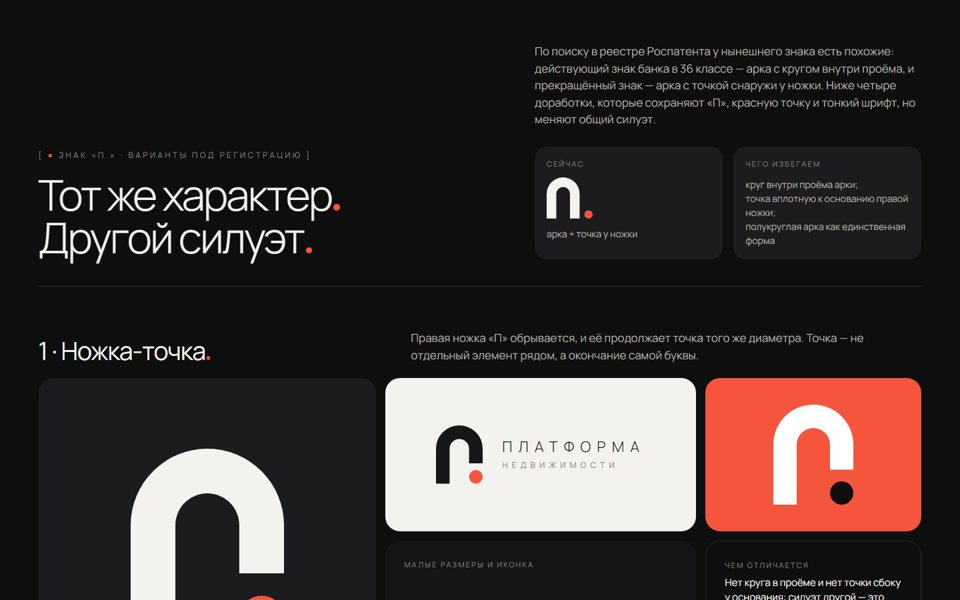
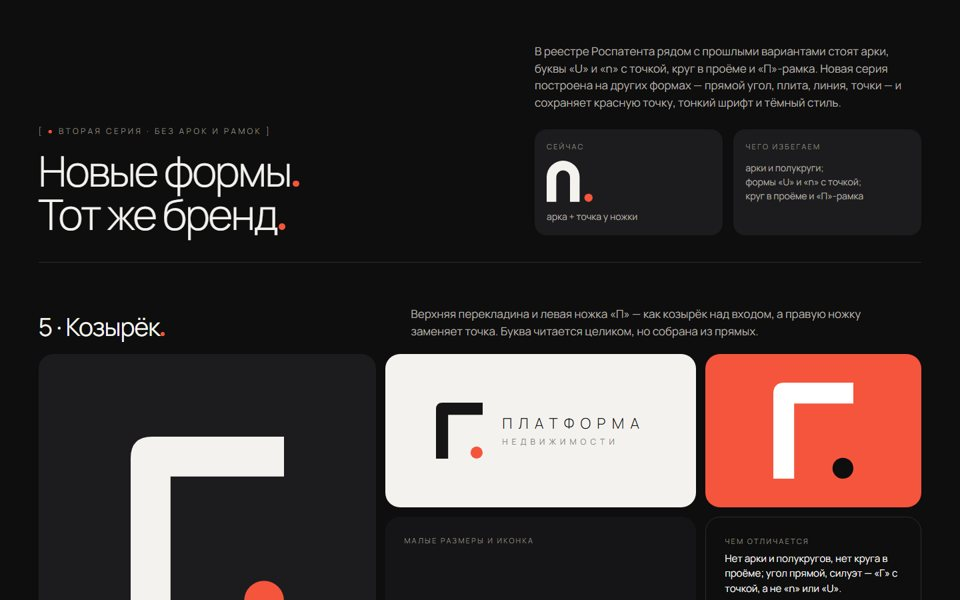
Вторая серия знаков с проверкой по реестру

diff --git a/10_Новые_знаки/index.html b/10_Новые_знаки/index.html
@@ -1,0 +1,74 @@
+<!doctype html><html lang="ru"><head><meta charset="utf-8"><meta name="viewport" content="width=device-width,initial-scale=1">
+<title>Новые знаки</title>
+<link href="https://fonts.googleapis.com/css2?family=Manrope:wght@300;400;500;600&display=swap" rel="stylesheet">
+<style>
+*{box-sizing:border-box}body{margin:0;background:#0E0E0F;color:#F4F2EE;font:400 16px/1.5 Manrope,system-ui,sans-serif}
+.w{max-width:1600px;margin:0 auto;padding:64px clamp(16px,4vw,72px) 90px}
+i.o{display:inline-block;width:.15em;height:.15em;border-radius:50%;background:#F5553C;margin-left:.05em}
+header{display:grid;grid-template-columns:minmax(0,1.2fr) minmax(0,1fr);gap:48px;align-items:end;border-bottom:1px solid #ffffff1f;padding-bottom:40px}
+h1{font:300 clamp(40px,4.4vw,72px)/1.02 Manrope;letter-spacing:-.04em;margin:18px 0 0}
+.br{font-size:12px;letter-spacing:.28em;text-transform:uppercase;color:#8A867F}.br b{color:#F5553C;font-weight:600}
+.lead{color:#B5B0A8;font-size:17px;margin:0}
+.ref{display:flex;gap:16px;margin-top:28px}.ref>div{flex:1;background:#1C1C1E;border-radius:18px;padding:18px}
+.ref .cap{margin-bottom:12px}.ref p{margin:0;font-size:14px;color:#B5B0A8}
+.cap{font-size:11px;letter-spacing:.2em;text-transform:uppercase;color:#8A867F}
+.v{padding-top:64px}
+.vh{display:grid;grid-template-columns:minmax(0,.8fr) minmax(0,1.2fr);gap:48px;align-items:end;margin-bottom:22px}
+.vh h2{margin:0;font:400 clamp(30px,2.6vw,44px)/1.05 Manrope;letter-spacing:-.03em}.vh p{margin:0;color:#B5B0A8;font-size:17px;max-width:720px}
+.vg{display:grid;grid-template-columns:1.25fr 1.15fr .8fr;grid-template-rows:auto auto;gap:14px}
+.t{border-radius:22px;min-height:230px;display:flex;align-items:center;justify-content:center;padding:28px;position:relative}
+.big{grid-row:span 2;background:#1C1C1E;min-height:480px}.light{background:#F4F2EE}.red{background:#F5553C}
+.dark2{background:#151517;flex-direction:column;align-items:flex-start;justify-content:space-between}
+.szs{display:flex;align-items:flex-end;gap:22px;margin-top:20px}.sz{display:flex;flex-direction:column;align-items:center;gap:8px}.sz span{font-size:11px;color:#8A867F}
+.ic{width:76px;height:76px;border-radius:18px;background:#0E0E0F;box-shadow:inset 0 0 0 1px #ffffff1a;display:flex;align-items:center;justify-content:center}
+.txt{background:transparent;border:1px solid #ffffff1f;flex-direction:column;align-items:flex-start;justify-content:flex-start}
+.txt p{margin:6px 0 0;font-size:15px;color:#F4F2EE}
+footer{margin-top:80px;border-top:1px solid #ffffff1f;padding-top:24px;color:#8A867F;font-size:13px}
+@media(max-width:900px){header,.vh{grid-template-columns:minmax(0,1fr);gap:18px}.ref{flex-direction:column}
+.vg{grid-template-columns:minmax(0,1fr)}.big{grid-row:auto;min-height:320px}.txt{grid-column:auto}.light>div{transform:scale(.8)}}
+</style></head><body><div class="w">
+<header>
+  <div><div class="br">[ <b>●</b> вторая серия · без арок и рамок ]</div><h1>Новые формы<i class="o"></i><br>Тот же бренд<i class="o"></i></h1></div>
+  <div><p class="lead">В реестре Роспатента рядом с прошлыми вариантами стоят арки, буквы «U» и «n» с точкой, круг в проёме и «П»-рамка. Новая серия построена на других формах — прямой угол, плита, линия, точки — и сохраняет красную точку, тонкий шрифт и тёмный стиль.</p>
+    <div class="ref"><div><div class="cap">сейчас</div><svg width="70" height="61.8" viewBox="0 0 68 60" role="img" aria-label="Знак" style="display:block;overflow:visible"><path d="M0 60 V24 A24 24 0 0 1 48 24 V60 H34 V24 A10 10 0 0 0 14 24 V60 Z" fill="#F4F2EE"/><circle cx="61" cy="54" r="6" fill="#F5553C"/></svg><p style="margin-top:12px">арка + точка у ножки</p></div>
+    <div><div class="cap">чего избегаем</div><p>арки и полукруги;<br>формы «U» и «n» с точкой;<br>круг в проёме и «П»-рамка</p></div></div></div>
+</header>
+<section class="v">
+  <div class="vh"><h2>5 · Козырёк<i class="o"></i></h2><p>Верхняя перекладина и левая ножка «П» — как козырёк над входом, а правую ножку заменяет точка. Буква читается целиком, но собрана из прямых.</p></div>
+  <div class="vg">
+    <div class="t big"><svg width="230" height="276.0" viewBox="0 0 50 60" role="img" aria-label="Знак" style="display:block;overflow:visible"><path d="M0 60 V7 Q0 0 7 0 H50 V13 H13 V60 Z" fill="#F4F2EE"/><circle cx="43.5" cy="53.5" r="6.5" fill="#F5553C"/></svg></div>
+    <div class="t light"><div style="display:flex;align-items:center;gap:29px"><svg width="70" height="84.0" viewBox="0 0 50 60" role="img" aria-label="Знак" style="display:block;overflow:visible"><path d="M0 60 V7 Q0 0 7 0 H50 V13 H13 V60 Z" fill="#161617"/><circle cx="43.5" cy="53.5" r="6.5" fill="#F5553C"/></svg><div style="display:flex;flex-direction:column;align-items:flex-start"><div style="font:300 22px/1 Manrope,sans-serif;letter-spacing:.42em;color:#161617;white-space:nowrap">ПЛАТФОРМА</div><div style="font:400 12.1px/1 Manrope,sans-serif;letter-spacing:.5em;color:#8A867F;white-space:nowrap;margin-top:11px">НЕДВИЖИМОСТИ</div></div></div></div>
+    <div class="t red"><svg width="120" height="144.0" viewBox="0 0 50 60" role="img" aria-label="Знак" style="display:block;overflow:visible"><path d="M0 60 V7 Q0 0 7 0 H50 V13 H13 V60 Z" fill="#FFFFFF"/><circle cx="43.5" cy="53.5" r="6.5" fill="#0E0E0F"/></svg></div>
+    <div class="t dark2"><div class="cap">малые размеры и иконка</div><div class="szs"><div class="sz"><svg width="64" height="76.8" viewBox="0 0 50 60" role="img" aria-label="Знак" style="display:block;overflow:visible"><path d="M0 60 V7 Q0 0 7 0 H50 V13 H13 V60 Z" fill="#F4F2EE"/><circle cx="43.5" cy="53.5" r="6.5" fill="#F5553C"/></svg><span>64</span></div><div class="sz"><svg width="32" height="38.4" viewBox="0 0 50 60" role="img" aria-label="Знак" style="display:block;overflow:visible"><path d="M0 60 V7 Q0 0 7 0 H50 V13 H13 V60 Z" fill="#F4F2EE"/><circle cx="43.5" cy="53.5" r="6.5" fill="#F5553C"/></svg><span>32</span></div><div class="sz"><svg width="20" height="24.0" viewBox="0 0 50 60" role="img" aria-label="Знак" style="display:block;overflow:visible"><path d="M0 60 V7 Q0 0 7 0 H50 V13 H13 V60 Z" fill="#F4F2EE"/><circle cx="43.5" cy="53.5" r="6.5" fill="#F5553C"/></svg><span>20</span></div><div class="sz"><svg width="16" height="19.2" viewBox="0 0 50 60" role="img" aria-label="Знак" style="display:block;overflow:visible"><path d="M0 60 V7 Q0 0 7 0 H50 V13 H13 V60 Z" fill="#F4F2EE"/><circle cx="43.5" cy="53.5" r="6.5" fill="#F5553C"/></svg><span>16</span></div><div class="ic"><svg width="46" height="55.2" viewBox="0 0 50 60" role="img" aria-label="Знак" style="display:block;overflow:visible"><path d="M0 60 V7 Q0 0 7 0 H50 V13 H13 V60 Z" fill="#F4F2EE"/><circle cx="43.5" cy="53.5" r="6.5" fill="#F5553C"/></svg></div></div></div>
+    <div class="t txt"><div class="cap">чем отличается</div><p>Нет арки и полукругов, нет круга в проёме; угол прямой, силуэт — «Г» с точкой, а не «n» или «U».</p><div class="cap" style="margin-top:18px">оценка</div><p>Реестр: рядом несколько «Г»-образных знаков — риск умеренный. Может читаться как «Г.» («г.» — город).</p></div>
+  </div>
+</section><section class="v">
+  <div class="vh"><h2>6 · Подиум<i class="o"></i></h2><p>Плоская широкая «П» — плита на двух опорах, то есть буквально платформа. Точка стоит на ней: ваш объект на нашей платформе.</p></div>
+  <div class="vg">
+    <div class="t big"><svg width="230" height="165.3" viewBox="0 0 64 46" role="img" aria-label="Знак" style="display:block;overflow:visible"><rect x="0" y="22" width="64" height="12" rx="2" fill="#F4F2EE"/><rect x="5" y="34" width="11" height="12" fill="#F4F2EE"/><rect x="48" y="34" width="11" height="12" fill="#F4F2EE"/><circle cx="32" cy="11" r="9" fill="#F5553C"/></svg></div>
+    <div class="t light"><div style="display:flex;align-items:center;gap:29px"><svg width="70" height="50.3" viewBox="0 0 64 46" role="img" aria-label="Знак" style="display:block;overflow:visible"><rect x="0" y="22" width="64" height="12" rx="2" fill="#161617"/><rect x="5" y="34" width="11" height="12" fill="#161617"/><rect x="48" y="34" width="11" height="12" fill="#161617"/><circle cx="32" cy="11" r="9" fill="#F5553C"/></svg><div style="display:flex;flex-direction:column;align-items:flex-start"><div style="font:300 22px/1 Manrope,sans-serif;letter-spacing:.42em;color:#161617;white-space:nowrap">ПЛАТФОРМА</div><div style="font:400 12.1px/1 Manrope,sans-serif;letter-spacing:.5em;color:#8A867F;white-space:nowrap;margin-top:11px">НЕДВИЖИМОСТИ</div></div></div></div>
+    <div class="t red"><svg width="120" height="86.2" viewBox="0 0 64 46" role="img" aria-label="Знак" style="display:block;overflow:visible"><rect x="0" y="22" width="64" height="12" rx="2" fill="#FFFFFF"/><rect x="5" y="34" width="11" height="12" fill="#FFFFFF"/><rect x="48" y="34" width="11" height="12" fill="#FFFFFF"/><circle cx="32" cy="11" r="9" fill="#0E0E0F"/></svg></div>
+    <div class="t dark2"><div class="cap">малые размеры и иконка</div><div class="szs"><div class="sz"><svg width="64" height="46.0" viewBox="0 0 64 46" role="img" aria-label="Знак" style="display:block;overflow:visible"><rect x="0" y="22" width="64" height="12" rx="2" fill="#F4F2EE"/><rect x="5" y="34" width="11" height="12" fill="#F4F2EE"/><rect x="48" y="34" width="11" height="12" fill="#F4F2EE"/><circle cx="32" cy="11" r="9" fill="#F5553C"/></svg><span>64</span></div><div class="sz"><svg width="32" height="23.0" viewBox="0 0 64 46" role="img" aria-label="Знак" style="display:block;overflow:visible"><rect x="0" y="22" width="64" height="12" rx="2" fill="#F4F2EE"/><rect x="5" y="34" width="11" height="12" fill="#F4F2EE"/><rect x="48" y="34" width="11" height="12" fill="#F4F2EE"/><circle cx="32" cy="11" r="9" fill="#F5553C"/></svg><span>32</span></div><div class="sz"><svg width="20" height="14.4" viewBox="0 0 64 46" role="img" aria-label="Знак" style="display:block;overflow:visible"><rect x="0" y="22" width="64" height="12" rx="2" fill="#F4F2EE"/><rect x="5" y="34" width="11" height="12" fill="#F4F2EE"/><rect x="48" y="34" width="11" height="12" fill="#F4F2EE"/><circle cx="32" cy="11" r="9" fill="#F5553C"/></svg><span>20</span></div><div class="sz"><svg width="16" height="11.5" viewBox="0 0 64 46" role="img" aria-label="Знак" style="display:block;overflow:visible"><rect x="0" y="22" width="64" height="12" rx="2" fill="#F4F2EE"/><rect x="5" y="34" width="11" height="12" fill="#F4F2EE"/><rect x="48" y="34" width="11" height="12" fill="#F4F2EE"/><circle cx="32" cy="11" r="9" fill="#F5553C"/></svg><span>16</span></div><div class="ic"><svg width="46" height="33.1" viewBox="0 0 64 46" role="img" aria-label="Знак" style="display:block;overflow:visible"><rect x="0" y="22" width="64" height="12" rx="2" fill="#F4F2EE"/><rect x="5" y="34" width="11" height="12" fill="#F4F2EE"/><rect x="48" y="34" width="11" height="12" fill="#F4F2EE"/><circle cx="32" cy="11" r="9" fill="#F5553C"/></svg></div></div></div>
+    <div class="t txt"><div class="cap">чем отличается</div><p>Горизонтальная композиция вместо вертикальной арки; точка сверху, а не сбоку или в проёме.</p><div class="cap" style="margin-top:18px">оценка</div><p>Реестр: близких знаков нет — риск низкий. Название в знаке читается сразу.</p></div>
+  </div>
+</section><section class="v">
+  <div class="vh"><h2>7 · Ступени<i class="o"></i></h2><p>Тонкая линия из трёх ступеней, наверху — точка. Путь клиента: квартира, дом, ремонт — и результат.</p></div>
+  <div class="vg">
+    <div class="t big"><svg width="230" height="230.0" viewBox="0 0 60 60" role="img" aria-label="Знак" style="display:block;overflow:visible"><path d="M0 57.5 H15 V42.5 H30 V27.5 H45 V14" fill="none" stroke="#F4F2EE" stroke-width="5" stroke-linejoin="miter"/><circle cx="45" cy="6" r="6" fill="#F5553C"/></svg></div>
+    <div class="t light"><div style="display:flex;align-items:center;gap:29px"><svg width="70" height="70.0" viewBox="0 0 60 60" role="img" aria-label="Знак" style="display:block;overflow:visible"><path d="M0 57.5 H15 V42.5 H30 V27.5 H45 V14" fill="none" stroke="#161617" stroke-width="5" stroke-linejoin="miter"/><circle cx="45" cy="6" r="6" fill="#F5553C"/></svg><div style="display:flex;flex-direction:column;align-items:flex-start"><div style="font:300 22px/1 Manrope,sans-serif;letter-spacing:.42em;color:#161617;white-space:nowrap">ПЛАТФОРМА</div><div style="font:400 12.1px/1 Manrope,sans-serif;letter-spacing:.5em;color:#8A867F;white-space:nowrap;margin-top:11px">НЕДВИЖИМОСТИ</div></div></div></div>
+    <div class="t red"><svg width="120" height="120.0" viewBox="0 0 60 60" role="img" aria-label="Знак" style="display:block;overflow:visible"><path d="M0 57.5 H15 V42.5 H30 V27.5 H45 V14" fill="none" stroke="#FFFFFF" stroke-width="5" stroke-linejoin="miter"/><circle cx="45" cy="6" r="6" fill="#0E0E0F"/></svg></div>
+    <div class="t dark2"><div class="cap">малые размеры и иконка</div><div class="szs"><div class="sz"><svg width="64" height="64.0" viewBox="0 0 60 60" role="img" aria-label="Знак" style="display:block;overflow:visible"><path d="M0 57.5 H15 V42.5 H30 V27.5 H45 V14" fill="none" stroke="#F4F2EE" stroke-width="5" stroke-linejoin="miter"/><circle cx="45" cy="6" r="6" fill="#F5553C"/></svg><span>64</span></div><div class="sz"><svg width="32" height="32.0" viewBox="0 0 60 60" role="img" aria-label="Знак" style="display:block;overflow:visible"><path d="M0 57.5 H15 V42.5 H30 V27.5 H45 V14" fill="none" stroke="#F4F2EE" stroke-width="5" stroke-linejoin="miter"/><circle cx="45" cy="6" r="6" fill="#F5553C"/></svg><span>32</span></div><div class="sz"><svg width="20" height="20.0" viewBox="0 0 60 60" role="img" aria-label="Знак" style="display:block;overflow:visible"><path d="M0 57.5 H15 V42.5 H30 V27.5 H45 V14" fill="none" stroke="#F4F2EE" stroke-width="5" stroke-linejoin="miter"/><circle cx="45" cy="6" r="6" fill="#F5553C"/></svg><span>20</span></div><div class="sz"><svg width="16" height="16.0" viewBox="0 0 60 60" role="img" aria-label="Знак" style="display:block;overflow:visible"><path d="M0 57.5 H15 V42.5 H30 V27.5 H45 V14" fill="none" stroke="#F4F2EE" stroke-width="5" stroke-linejoin="miter"/><circle cx="45" cy="6" r="6" fill="#F5553C"/></svg><span>16</span></div><div class="ic"><svg width="46" height="46.0" viewBox="0 0 60 60" role="img" aria-label="Знак" style="display:block;overflow:visible"><path d="M0 57.5 H15 V42.5 H30 V27.5 H45 V14" fill="none" stroke="#F4F2EE" stroke-width="5" stroke-linejoin="miter"/><circle cx="45" cy="6" r="6" fill="#F5553C"/></svg></div></div></div>
+    <div class="t txt"><div class="cap">чем отличается</div><p>Никаких букв «П/n/U»: линейный знак-маршрут, из найденных в реестре ничего похожего.</p><div class="cap" style="margin-top:18px">оценка</div><p>Реестр: близких знаков нет — риск самый низкий. Тонкий, как нравилось клиенту. Рекомендую.</p></div>
+  </div>
+</section><section class="v">
+  <div class="vh"><h2>8 · Отбор<i class="o"></i></h2><p>«П» из семи точек, последняя — красная. Продолжает фирменную графику «из сотен предложений — одно проверенное».</p></div>
+  <div class="vg">
+    <div class="t big"><svg width="230" height="230.0" viewBox="0 0 40 40" role="img" aria-label="Знак" style="display:block;overflow:visible"><circle cx="6" cy="6" r="5.5" fill="#F4F2EE"/><circle cx="20" cy="6" r="5.5" fill="#F4F2EE"/><circle cx="34" cy="6" r="5.5" fill="#F4F2EE"/><circle cx="6" cy="20" r="5.5" fill="#F4F2EE"/><circle cx="34" cy="20" r="5.5" fill="#F4F2EE"/><circle cx="6" cy="34" r="5.5" fill="#F4F2EE"/><circle cx="34" cy="34" r="5.5" fill="#F5553C"/></svg></div>
+    <div class="t light"><div style="display:flex;align-items:center;gap:29px"><svg width="70" height="70.0" viewBox="0 0 40 40" role="img" aria-label="Знак" style="display:block;overflow:visible"><circle cx="6" cy="6" r="5.5" fill="#161617"/><circle cx="20" cy="6" r="5.5" fill="#161617"/><circle cx="34" cy="6" r="5.5" fill="#161617"/><circle cx="6" cy="20" r="5.5" fill="#161617"/><circle cx="34" cy="20" r="5.5" fill="#161617"/><circle cx="6" cy="34" r="5.5" fill="#161617"/><circle cx="34" cy="34" r="5.5" fill="#F5553C"/></svg><div style="display:flex;flex-direction:column;align-items:flex-start"><div style="font:300 22px/1 Manrope,sans-serif;letter-spacing:.42em;color:#161617;white-space:nowrap">ПЛАТФОРМА</div><div style="font:400 12.1px/1 Manrope,sans-serif;letter-spacing:.5em;color:#8A867F;white-space:nowrap;margin-top:11px">НЕДВИЖИМОСТИ</div></div></div></div>
+    <div class="t red"><svg width="120" height="120.0" viewBox="0 0 40 40" role="img" aria-label="Знак" style="display:block;overflow:visible"><circle cx="6" cy="6" r="5.5" fill="#FFFFFF"/><circle cx="20" cy="6" r="5.5" fill="#FFFFFF"/><circle cx="34" cy="6" r="5.5" fill="#FFFFFF"/><circle cx="6" cy="20" r="5.5" fill="#FFFFFF"/><circle cx="34" cy="20" r="5.5" fill="#FFFFFF"/><circle cx="6" cy="34" r="5.5" fill="#FFFFFF"/><circle cx="34" cy="34" r="5.5" fill="#0E0E0F"/></svg></div>
+    <div class="t dark2"><div class="cap">малые размеры и иконка</div><div class="szs"><div class="sz"><svg width="64" height="64.0" viewBox="0 0 40 40" role="img" aria-label="Знак" style="display:block;overflow:visible"><circle cx="6" cy="6" r="5.5" fill="#F4F2EE"/><circle cx="20" cy="6" r="5.5" fill="#F4F2EE"/><circle cx="34" cy="6" r="5.5" fill="#F4F2EE"/><circle cx="6" cy="20" r="5.5" fill="#F4F2EE"/><circle cx="34" cy="20" r="5.5" fill="#F4F2EE"/><circle cx="6" cy="34" r="5.5" fill="#F4F2EE"/><circle cx="34" cy="34" r="5.5" fill="#F5553C"/></svg><span>64</span></div><div class="sz"><svg width="32" height="32.0" viewBox="0 0 40 40" role="img" aria-label="Знак" style="display:block;overflow:visible"><circle cx="6" cy="6" r="5.5" fill="#F4F2EE"/><circle cx="20" cy="6" r="5.5" fill="#F4F2EE"/><circle cx="34" cy="6" r="5.5" fill="#F4F2EE"/><circle cx="6" cy="20" r="5.5" fill="#F4F2EE"/><circle cx="34" cy="20" r="5.5" fill="#F4F2EE"/><circle cx="6" cy="34" r="5.5" fill="#F4F2EE"/><circle cx="34" cy="34" r="5.5" fill="#F5553C"/></svg><span>32</span></div><div class="sz"><svg width="20" height="20.0" viewBox="0 0 40 40" role="img" aria-label="Знак" style="display:block;overflow:visible"><circle cx="6" cy="6" r="5.5" fill="#F4F2EE"/><circle cx="20" cy="6" r="5.5" fill="#F4F2EE"/><circle cx="34" cy="6" r="5.5" fill="#F4F2EE"/><circle cx="6" cy="20" r="5.5" fill="#F4F2EE"/><circle cx="34" cy="20" r="5.5" fill="#F4F2EE"/><circle cx="6" cy="34" r="5.5" fill="#F4F2EE"/><circle cx="34" cy="34" r="5.5" fill="#F5553C"/></svg><span>20</span></div><div class="sz"><svg width="16" height="16.0" viewBox="0 0 40 40" role="img" aria-label="Знак" style="display:block;overflow:visible"><circle cx="6" cy="6" r="5.5" fill="#F4F2EE"/><circle cx="20" cy="6" r="5.5" fill="#F4F2EE"/><circle cx="34" cy="6" r="5.5" fill="#F4F2EE"/><circle cx="6" cy="20" r="5.5" fill="#F4F2EE"/><circle cx="34" cy="20" r="5.5" fill="#F4F2EE"/><circle cx="6" cy="34" r="5.5" fill="#F4F2EE"/><circle cx="34" cy="34" r="5.5" fill="#F5553C"/></svg><span>16</span></div><div class="ic"><svg width="46" height="46.0" viewBox="0 0 40 40" role="img" aria-label="Знак" style="display:block;overflow:visible"><circle cx="6" cy="6" r="5.5" fill="#F4F2EE"/><circle cx="20" cy="6" r="5.5" fill="#F4F2EE"/><circle cx="34" cy="6" r="5.5" fill="#F4F2EE"/><circle cx="6" cy="20" r="5.5" fill="#F4F2EE"/><circle cx="34" cy="20" r="5.5" fill="#F4F2EE"/><circle cx="6" cy="34" r="5.5" fill="#F4F2EE"/><circle cx="34" cy="34" r="5.5" fill="#F5553C"/></svg></div></div></div>
+    <div class="t txt"><div class="cap">чем отличается</div><p>Знак из отдельных точек, а не сплошной формы; красная точка — часть буквы.</p><div class="cap" style="margin-top:18px">оценка</div><p>Реестр: в 36 классе много знаков из точек и сеток точек — риск умеренный, отличительность слабее. Зато знак и паттерн бренда — одно целое.</p></div>
+  </div>
+</section>
+<footer>Предварительная проработка. Окончательный выбор формы для подачи — после заключения патентного поверенного.</footer>
+</div></body></html>

diff --git a/index.html b/index.html
@@ -33,6 +33,6 @@ footer{border-top:1px solid #ffffff1a;padding:28px 0 40px;color:#8A867F;font-siz
 <div class="meta">Фирменный стиль<br>Екатеринбург · 2026</div></header>
 <h1>Квартира<i class="o"></i> Дом<i class="o"></i> Ремонт<i class="o"></i><br>Ставим точку<i class="o"></i></h1>
 <p class="lead">Материалы по бренду: презентация, пример сайта, логотип и носители.</p>
-<main class="grid"><article class="card"><a class="pv" href="07_Презентация/"><img src="_hub/1.jpg" alt="Презентация бренда" loading="lazy"></a><div class="tx"><span class="n">01</span><h2><a href="07_Презентация/">Презентация бренда<i class="o"></i></a></h2><p>Идея, знак и построение, цвета, шрифт, графика, иконка, слоганы, носители и сайт.</p><div class="act"><a class="open" href="07_Презентация/">Открыть</a><a class="dl" href="07_Презентация/Презентация_бренда.jpg" download>Скачать картинкой</a></div></div></article><article class="card"><a class="pv" href="08_Сайт_пример/"><img src="_hub/2.jpg" alt="Пример сайта" loading="lazy"></a><div class="tx"><span class="n">02</span><h2><a href="08_Сайт_пример/">Пример сайта<i class="o"></i></a></h2><p>Поиск по квартирам, ремонту и домам на первом экране, карточки и карта. Работает на телефоне.</p><div class="act"><a class="open" href="08_Сайт_пример/">Открыть</a></div></div></article><article class="card"><a class="pv" href="09_Доработка_знака/"><img src="_hub/3.jpg" alt="Доработка знака" loading="lazy"></a><div class="tx"><span class="n">03</span><h2><a href="09_Доработка_знака/">Доработка знака<i class="o"></i></a></h2><p>Четыре варианта знака «П.» с другим силуэтом — чтобы уйти от похожих знаков в реестре.</p><div class="act"><a class="open" href="09_Доработка_знака/">Открыть</a><a class="dl" href="09_Доработка_знака/Варианты_знака.jpg" download>Скачать картинкой</a></div></div></article><article class="card"><a class="pv" href="06_П_точка/index.html"><img src="_hub/4.jpg" alt="Логотип и система" loading="lazy"></a><div class="tx"><span class="n">04</span><h2><a href="06_П_точка/index.html">Логотип и система<i class="o"></i></a></h2><p>Знак «П.», версии логотипа, малые размеры, иконка, точка как система.</p><div class="act"><a class="open" href="06_П_точка/index.html">Открыть</a><a class="dl" href="06_П_точка/П_логотип.png" download>Скачать картинкой</a></div></div></article><article class="card"><a class="pv" href="06_П_точка/life.html"><img src="_hub/5.jpg" alt="Бренд в жизни" loading="lazy"></a><div class="tx"><span class="n">05</span><h2><a href="06_П_точка/life.html">Бренд в жизни<i class="o"></i></a></h2><p>Вывеска, ограждение стройки, билборд, каска, спецодежда, визитки и соцсети.</p><div class="act"><a class="open" href="06_П_точка/life.html">Открыть</a><a class="dl" href="06_П_точка/П_в_жизни.png" download>Скачать картинкой</a></div></div></article></main>
+<main class="grid"><article class="card"><a class="pv" href="07_Презентация/"><img src="_hub/1.jpg" alt="Презентация бренда" loading="lazy"></a><div class="tx"><span class="n">01</span><h2><a href="07_Презентация/">Презентация бренда<i class="o"></i></a></h2><p>Идея, знак и построение, цвета, шрифт, графика, иконка, слоганы, носители и сайт.</p><div class="act"><a class="open" href="07_Презентация/">Открыть</a><a class="dl" href="07_Презентация/Презентация_бренда.jpg" download>Скачать картинкой</a></div></div></article><article class="card"><a class="pv" href="08_Сайт_пример/"><img src="_hub/2.jpg" alt="Пример сайта" loading="lazy"></a><div class="tx"><span class="n">02</span><h2><a href="08_Сайт_пример/">Пример сайта<i class="o"></i></a></h2><p>Поиск по квартирам, ремонту и домам на первом экране, карточки и карта. Работает на телефоне.</p><div class="act"><a class="open" href="08_Сайт_пример/">Открыть</a></div></div></article><article class="card"><a class="pv" href="10_Новые_знаки/"><img src="_hub/3.jpg" alt="Новые знаки" loading="lazy"></a><div class="tx"><span class="n">03</span><h2><a href="10_Новые_знаки/">Новые знаки<i class="o"></i></a></h2><p>Вторая серия без арок и рамок: Козырёк, Подиум, Ступени, Отбор — с оценкой по реестру Роспатента.</p><div class="act"><a class="open" href="10_Новые_знаки/">Открыть</a><a class="dl" href="10_Новые_знаки/Новые_знаки.jpg" download>Скачать картинкой</a></div></div></article><article class="card"><a class="pv" href="09_Доработка_знака/"><img src="_hub/4.jpg" alt="Доработка знака" loading="lazy"></a><div class="tx"><span class="n">04</span><h2><a href="09_Доработка_знака/">Доработка знака<i class="o"></i></a></h2><p>Четыре варианта знака «П.» с другим силуэтом — чтобы уйти от похожих знаков в реестре.</p><div class="act"><a class="open" href="09_Доработка_знака/">Открыть</a><a class="dl" href="09_Доработка_знака/Варианты_знака.jpg" download>Скачать картинкой</a></div></div></article><article class="card"><a class="pv" href="06_П_точка/index.html"><img src="_hub/5.jpg" alt="Логотип и система" loading="lazy"></a><div class="tx"><span class="n">05</span><h2><a href="06_П_точка/index.html">Логотип и система<i class="o"></i></a></h2><p>Знак «П.», версии логотипа, малые размеры, иконка, точка как система.</p><div class="act"><a class="open" href="06_П_точка/index.html">Открыть</a><a class="dl" href="06_П_точка/П_логотип.png" download>Скачать картинкой</a></div></div></article><article class="card"><a class="pv" href="06_П_точка/life.html"><img src="_hub/6.jpg" alt="Бренд в жизни" loading="lazy"></a><div class="tx"><span class="n">06</span><h2><a href="06_П_точка/life.html">Бренд в жизни<i class="o"></i></a></h2><p>Вывеска, ограждение стройки, билборд, каска, спецодежда, визитки и соцсети.</p><div class="act"><a class="open" href="06_П_точка/life.html">Открыть</a><a class="dl" href="06_П_точка/П_в_жизни.png" download>Скачать картинкой</a></div></div></article></main>
 <footer>Цены, площади, имена и контакты на макетах — заглушки до данных заказчика.</footer>
 </div></body></html>

diff --git a/tools/p_mark_variants2.py b/tools/p_mark_variants2.py
@@ -1,0 +1,61 @@
+"""Вторая серия знаков: без арок, «U/n»-форм и «П»-рамки (по итогам изобразительного поиска Роспатента).
+Run: py -3 tools/p_mark_variants2.py → 10_Новые_знаки/index.html"""
+import os
+import p_mark_variants as V
+
+V.OUT = os.path.join(V.ROOT, '10_Новые_знаки')
+os.makedirs(V.OUT, exist_ok=True)
+
+# П из 7 точек сетки 3×3: последняя (правая нижняя) — красная
+_dots = ''.join(f'<circle cx="{6 + 14 * c}" cy="{6 + 14 * r}" r="5.5" fill="{{c}}"/>'
+                for r, c in ((0, 0), (0, 1), (0, 2), (1, 0), (1, 2), (2, 0)))
+V.MARKS.update({
+    # Козырёк: «Г» с прямым углом, вместо правой ножки — точка того же диаметра
+    'roof': ('0 0 50 60', '<path d="M0 60 V7 Q0 0 7 0 H50 V13 H13 V60 Z" fill="{c}"/>', '<circle cx="43.5" cy="53.5" r="6.5" fill="{d}"/>'),
+    # Подиум: плоская «П» — плита на двух коротких опорах, точка стоит на плите
+    'podium': ('0 0 64 46', '<rect x="0" y="22" width="64" height="12" rx="2" fill="{c}"/><rect x="5" y="34" width="11" height="12" fill="{c}"/><rect x="48" y="34" width="11" height="12" fill="{c}"/>',
+               '<circle cx="32" cy="11" r="9" fill="{d}"/>'),
+    # Ступени: тонкая лестница из трёх ступеней, наверху точка
+    'steps': ('0 0 60 60', '<path d="M0 57.5 H15 V42.5 H30 V27.5 H45 V14" fill="none" stroke="{c}" stroke-width="5" stroke-linejoin="miter"/>',
+              '<circle cx="45" cy="6" r="6" fill="{d}"/>'),
+    # Отбор: «П» из семи точек, последняя — красная (как в фирменной графике «из сотен точек — одна»)
+    'dots': ('0 0 40 40', _dots, '<circle cx="34" cy="34" r="5.5" fill="{d}"/>'),
+})
+
+V.VARIANTS = [
+    ('roof', '5 · Козырёк',
+     'Верхняя перекладина и левая ножка «П» — как козырёк над входом, а правую ножку заменяет точка. Буква читается целиком, но собрана из прямых.',
+     'Нет арки и полукругов, нет круга в проёме; угол прямой, силуэт — «Г» с точкой, а не «n» или «U».',
+     'Реестр: рядом несколько «Г»-образных знаков — риск умеренный. Может читаться как «Г.» («г.» — город).'),
+    ('podium', '6 · Подиум',
+     'Плоская широкая «П» — плита на двух опорах, то есть буквально платформа. Точка стоит на ней: ваш объект на нашей платформе.',
+     'Горизонтальная композиция вместо вертикальной арки; точка сверху, а не сбоку или в проёме.',
+     'Реестр: близких знаков нет — риск низкий. Название в знаке читается сразу.'),
+    ('steps', '7 · Ступени',
+     'Тонкая линия из трёх ступеней, наверху — точка. Путь клиента: квартира, дом, ремонт — и результат.',
+     'Никаких букв «П/n/U»: линейный знак-маршрут, из найденных в реестре ничего похожего.',
+     'Реестр: близких знаков нет — риск самый низкий. Тонкий, как нравилось клиенту. Рекомендую.'),
+    ('dots', '8 · Отбор',
+     '«П» из семи точек, последняя — красная. Продолжает фирменную графику «из сотен предложений — одно проверенное».',
+     'Знак из отдельных точек, а не сплошной формы; красная точка — часть буквы.',
+     'Реестр: в 36 классе много знаков из точек и сеток точек — риск умеренный, отличительность слабее. Зато знак и паттерн бренда — одно целое.'),
+]
+
+_page = V.page
+
+
+def page():
+    s = _page()
+    s = s.replace('<title>Доработка знака «П.»</title>', '<title>Новые знаки</title>')
+    s = s.replace('знак «П.» · варианты под регистрацию', 'вторая серия · без арок и рамок')
+    s = s.replace('Тот же характер<i class="o"></i><br>Другой силуэт<i class="o"></i>', 'Новые формы<i class="o"></i><br>Тот же бренд<i class="o"></i>')
+    s = s.replace('По поиску в реестре Роспатента у нынешнего знака есть похожие: действующий знак банка в 36 классе — арка с кругом внутри проёма, и прекращённый знак — арка с точкой снаружи у ножки. Ниже четыре доработки, которые сохраняют «П», красную точку и тонкий шрифт, но меняют общий силуэт.',
+                  'В реестре Роспатента рядом с прошлыми вариантами стоят арки, буквы «U» и «n» с точкой, круг в проёме и «П»-рамка. Новая серия построена на других формах — прямой угол, плита, линия, точки — и сохраняет красную точку, тонкий шрифт и тёмный стиль.')
+    s = s.replace('круг внутри проёма арки;<br>точка вплотную к основанию правой ножки;<br>полукруглая арка как единственная форма',
+                  'арки и полукруги;<br>формы «U» и «n» с точкой;<br>круг в проёме и «П»-рамка')
+    return s
+
+
+if __name__ == '__main__':
+    open(os.path.join(V.OUT, 'index.html'), 'w', encoding='utf8').write(page())
+    print('ok')

diff --git a/tools/research/build_similar.py b/tools/research/build_similar.py
@@ -11,6 +11,10 @@ OUT = os.path.join(os.path.dirname(os.path.dirname(os.path.dirname(os.path.abspa
 os.makedirs(OUT, exist_ok=True)
 N = int(sys.argv[1]) if len(sys.argv) > 1 else 24
 KEYS = [('now', 'Сейчас: «П.»'), ('leg', '1 · Ножка-точка'), ('base', '2 · Платформа'), ('line', '3 · Монолиния'), ('frame', '4 · Прямой свод')]
+ALLN = dict(KEYS + [('roof', '5 · Козырёк'), ('podium', '6 · Подиум'), ('steps', '7 · Ступени'), ('dots', '8 · Отбор')])
+if len(sys.argv) > 2:
+    KEYS = [(k, ALLN[k]) for k in sys.argv[2].split(',')]
+OUTNAME = sys.argv[3] if len(sys.argv) > 3 else 'Похожие_знаки'
 FLAGS = {}
 fp = os.path.join(T, 'flags.txt')
 if os.path.exists(fp):
@@ -168,7 +172,7 @@ for key, name in KEYS:
         d.text((x + 4, y + CH + 5), label, font=Fs, fill='#C2321E' if flag else '#77736C')
         report.append(f'{key}\t{i + 1}\t{app}\t{"ok" if ok else "нет картинки"}')
     y0 += SEC
-canvas.save(os.path.join(OUT, 'Похожие_знаки.png'))
-canvas.convert('RGB').save(os.path.join(OUT, 'Похожие_знаки.jpg'), quality=88)
-open(os.path.join(OUT, 'список.tsv'), 'w', encoding='utf8').write('знак\tместо\tзаявка\tкартинка\n' + '\n'.join(report))
+canvas.save(os.path.join(OUT, OUTNAME + '.png'))
+canvas.convert('RGB').save(os.path.join(OUT, OUTNAME + '.jpg'), quality=88)
+open(os.path.join(OUT, OUTNAME + '_список.tsv'), 'w', encoding='utf8').write('знак\tместо\tзаявка\tкартинка\n' + '\n'.join(report))
 print('ok', canvas.size)

diff --git a/tools/p_hub.py b/tools/p_hub.py
@@ -14,6 +14,8 @@ ITEMS = [  # (папка/страница, превью-источник, кад
      'Идея, знак и построение, цвета, шрифт, графика, иконка, слоганы, носители и сайт.', '07_Презентация/Презентация_бренда.jpg'),
     ('08_Сайт_пример/', '08_Сайт_пример/desktop.png', (0, 0, 1440, 900), 'Пример сайта',
      'Поиск по квартирам, ремонту и домам на первом экране, карточки и карта. Работает на телефоне.', None),
+    ('10_Новые_знаки/', '10_Новые_знаки/Новые_знаки.png', (0, 0, 1440, 900), 'Новые знаки',
+     'Вторая серия без арок и рамок: Козырёк, Подиум, Ступени, Отбор — с оценкой по реестру Роспатента.', '10_Новые_знаки/Новые_знаки.jpg'),
     ('09_Доработка_знака/', '09_Доработка_знака/Варианты_знака.png', (0, 0, 1440, 900), 'Доработка знака',
      'Четыре варианта знака «П.» с другим силуэтом — чтобы уйти от похожих знаков в реестре.', '09_Доработка_знака/Варианты_знака.jpg'),
     ('06_П_точка/index.html', '06_П_точка/П_логотип.png', (0, 0, 1440, 900), 'Логотип и система',

diff --git a/tools/research/make_marks.py b/tools/research/make_marks.py
@@ -1,10 +1,11 @@
 """HTML-страницы со знаками (чёрный на белом) для загрузки в изобразительный поиск. Run из корня репо."""
 import os, sys
 sys.path.insert(0, 'tools')
-import p_mark_variants as V
+import p_mark_variants2 as V2
+V = V2.V
 
 T = os.path.join(os.environ['TEMP'], 'pn_be')
-for k in ('now', 'leg', 'base', 'line', 'frame'):
+for k in (sys.argv[1:] or ['now', 'leg', 'base', 'line', 'frame']):
     s = V.svg(k, 420, '#000', '#000')
     with open(os.path.join(T, f'mk_{k}.html'), 'w', encoding='utf8') as f:
         f.write('<!doctype html><html><body style="margin:0;background:#fff;width:600px;height:600px;'
